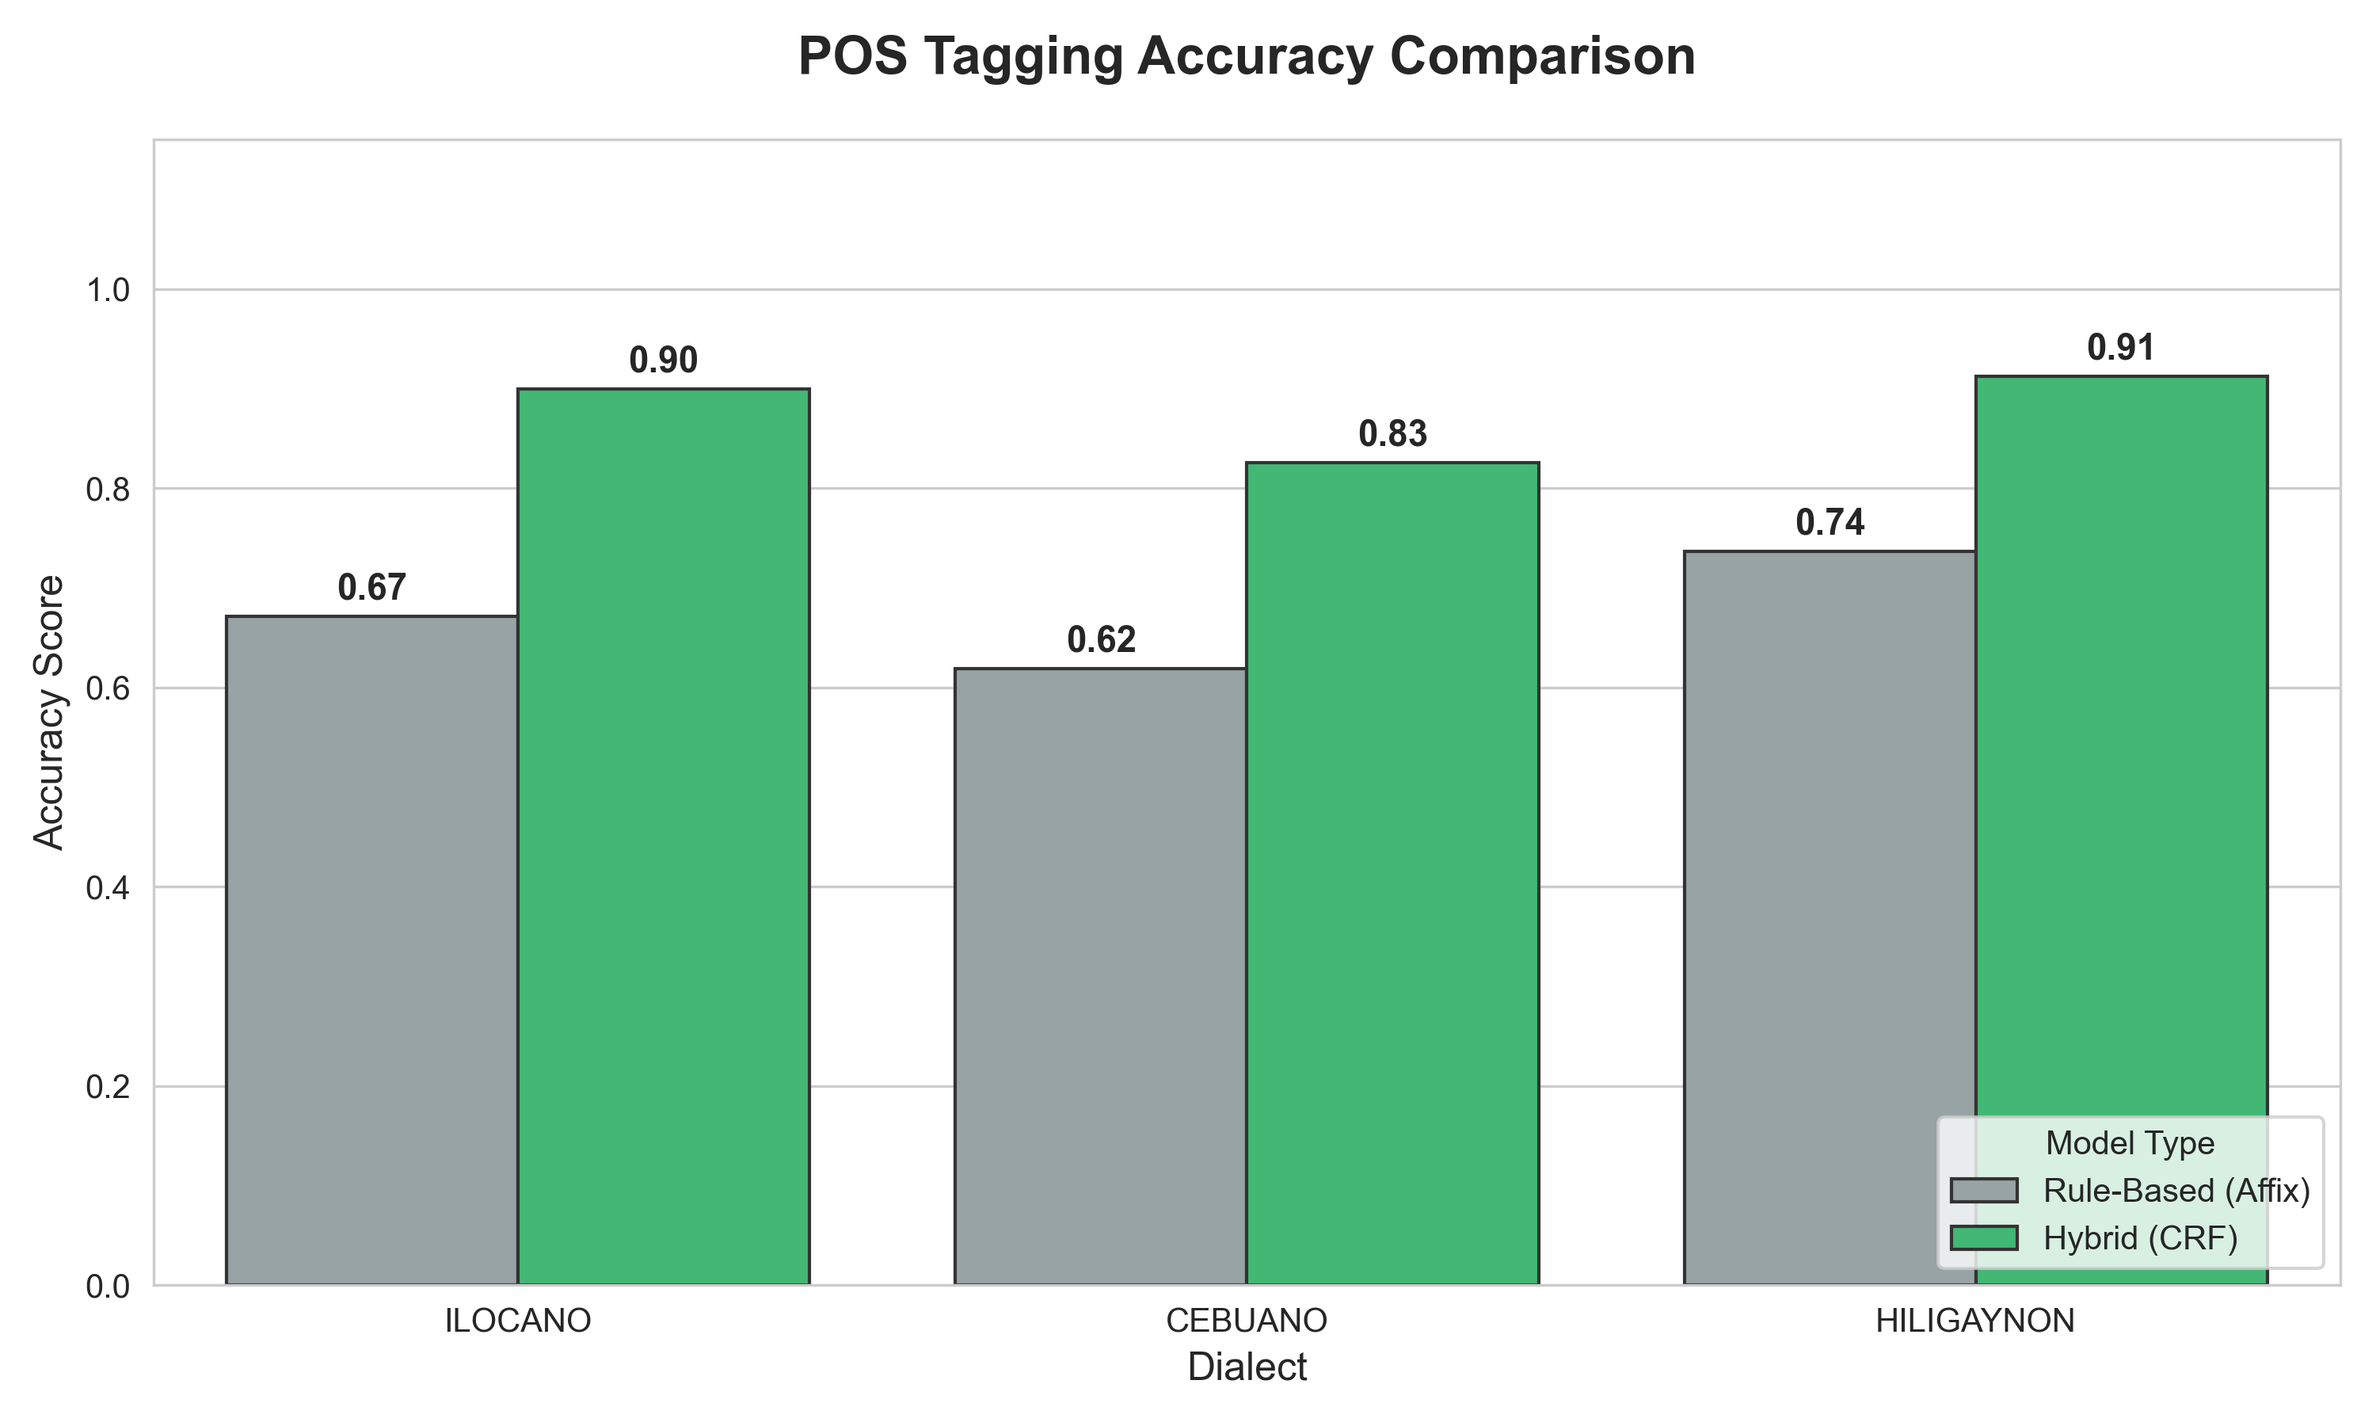
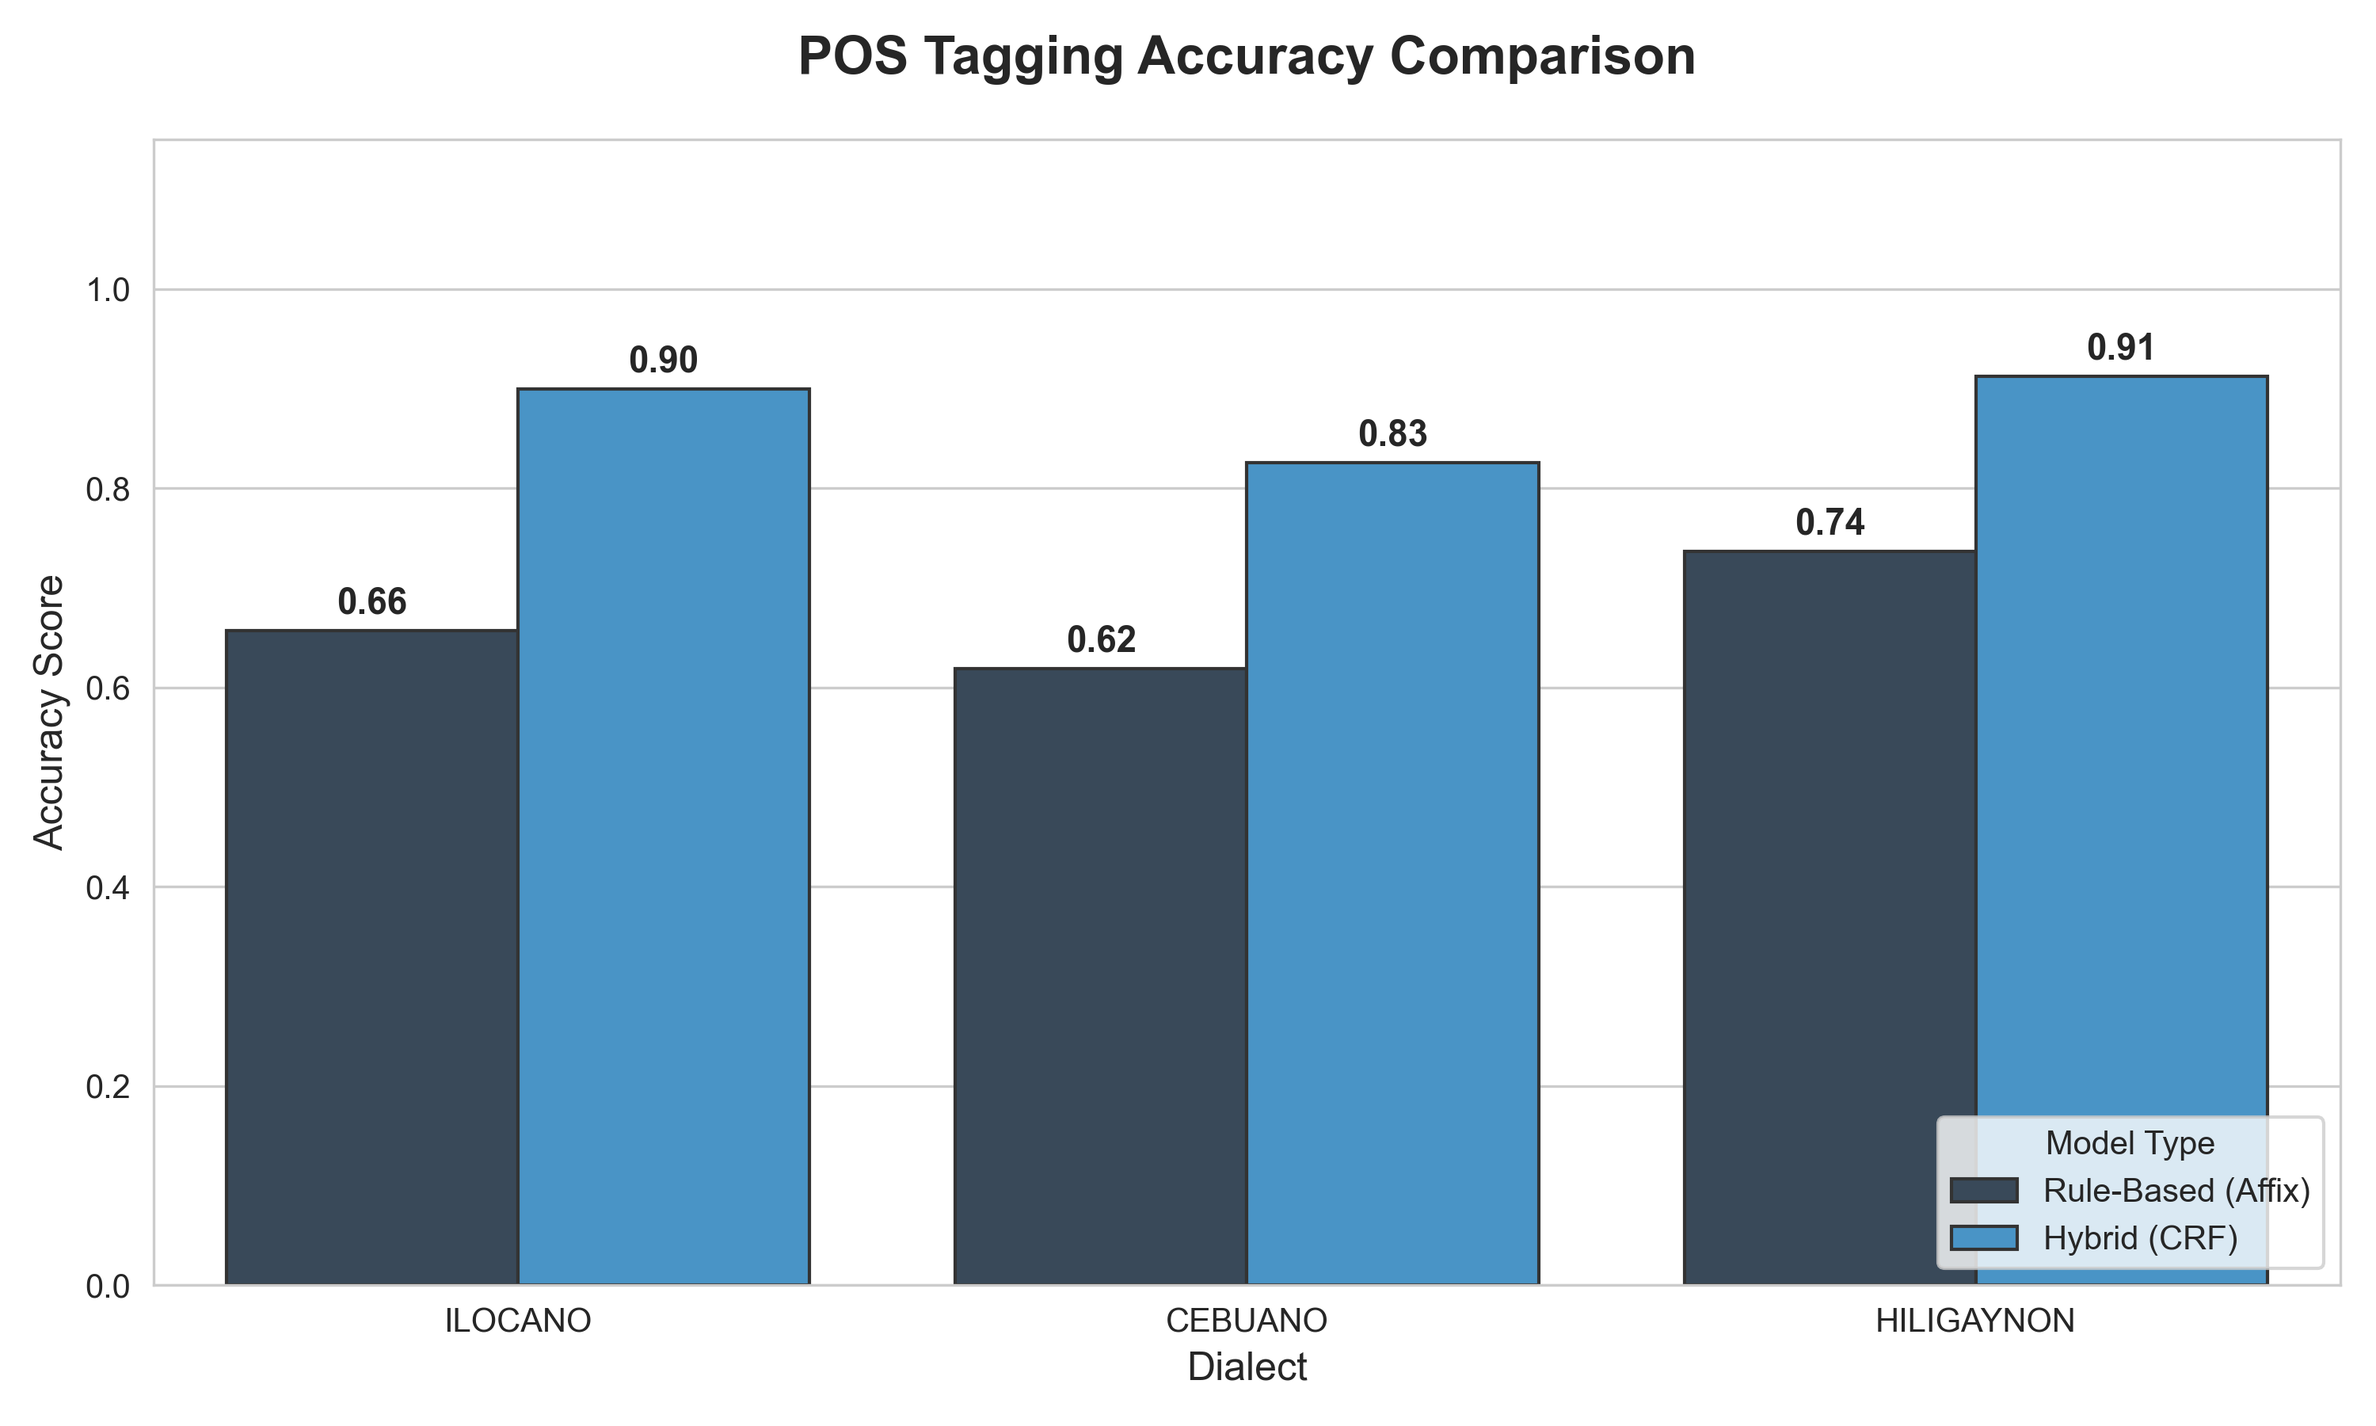
UPDATE: Added More Metrics and Results

diff --git a/backend/metrics/test_ambiguity.py b/backend/metrics/test_ambiguity.py
@@ -1,0 +1,221 @@
+import sys
+import os
+import pandas as pd
+import matplotlib.pyplot as plt
+import seaborn as sns
+from pathlib import Path
+
+# ─────────────────────────────────────────────────────────────────────────────
+# 1. SETUP & PATHS
+# ─────────────────────────────────────────────────────────────────────────────
+BACKEND_DIR = Path(__file__).resolve().parent
+os.chdir(BACKEND_DIR)
+sys.path.append(str(BACKEND_DIR))
+OUTPUT_DIR = BACKEND_DIR / "results"
+OUTPUT_DIR.mkdir(exist_ok=True)
+
+try:
+    from core.tagger.affix_tagging import predict_pos_batch
+    from core.tagger.crf_tagging import predict_pos, format_tokens_for_crf
+    from core.morphology.affix_stripping import get_morph_engine
+    print("✅ Engine Loaded.")
+except ImportError:
+    sys.exit("❌ Could not load engine.")
+
+# ─────────────────────────────────────────────────────────────────────────────
+# 2. INJECT EXTENDED TRAP LIST
+# ─────────────────────────────────────────────────────────────────────────────
+engine = get_morph_engine()
+print("\n💉 INJECTING EXTENDED TRAP LIST (27+ TRAPS)...")
+
+# We define the "stripped" versions of proper nouns as valid roots.
+# This forces the Affix Model to strip them (Fail), while CRF should recognize the Name (Pass).
+traps = {
+    "ilocano": [
+        # Original Traps
+        "osto", "bini", "ustin", "bukel", "oo", "bugao", "ong", "aw", "ta", "pay",
+        # NEW TRAPS
+        "singal",   # Magsingal (Place) -> Mag-singal
+        "udin",     # Tagudin (Place) -> Tag-udin
+        "partian",  # Nagpartian (Place) -> Nag-partian
+        "si"        # Masi (Place) -> Ma-si
+    ],
+    "cebuano": [
+        # Original Traps
+        "nila", "gia", "lou", "bolo", "tina", "pascua", "ro", "no", "las", "hal", "ta",
+        # NEW TRAPS
+        "lisay",    # Talisay (Place) -> Ta-lisay (Ta- prefix?)
+        "tilan",    # Ginatilan (Place) -> Gina-tilan (Gina- passive prefix)
+        "uikay",    # Maguikay (Place) -> Mag-uikay
+        "alboal"    # Moalboal (Place) -> Mo-alboal (Mo- future prefix)
+    ],
+    "hiligaynon": [
+        # Original Traps
+        "nolia", "ren", "gadia", "nay", "linao", "asin", "ga", "hal", "ta", "sakit",
+        # NEW TRAPS
+        "libo",     # Kalibo (Place) -> Ka-libo (Ka- prefix, Libo = 1000)
+        "busao",    # Mambusao (Place) -> Mam-busao (Mam- prefix)
+        "napla",    # Manapla (Place) -> Ma-napla
+        "pon"       # Mambusao (dup? let's use Pontevedra -> Pon-tevedra? too complex. Let's use 'Sipalay' -> Si-palay)
+                    # Sipalay -> Si-palay (Palay is Rice). Perfect collision.
+    ]
+}
+
+# Add 'palay' to hiligaynon traps separately since 'palay' is a real word anyway
+traps["hiligaynon"].append("palay")
+
+for lang, words in traps.items():
+    for w in words:
+        engine.roots[lang][w] = "TRAP_ROOT"
+        engine.root_sets[lang].add(w)
+
+print("✅ All Traps Injected.\n")
+
+# ─────────────────────────────────────────────────────────────────────────────
+# 3. EXPANDED TEST DATA (30+ CASES)
+# ─────────────────────────────────────────────────────────────────────────────
+AMBIGUOUS_DATA = [
+    # =========================================================
+    # ILOCANO (13 Cases)
+    # =========================================================
+    # --- Proper Noun Traps ---
+    { "Dialect": "ILOCANO", "Sentence": "Naragsak ti Agosto idiay plaza .", "Target_Word": "Agosto", "Expected_Lemma": "agosto" },
+    { "Dialect": "ILOCANO", "Sentence": "Napan da idiay Mabini .", "Target_Word": "Mabini", "Expected_Lemma": "mabini" },
+    { "Dialect": "ILOCANO", "Sentence": "Ni Agustin ti kabsatko .", "Target_Word": "Agustin", "Expected_Lemma": "agustin" },
+    { "Dialect": "ILOCANO", "Sentence": "Nagpintas ti Nagbukel .", "Target_Word": "Nagbukel", "Expected_Lemma": "nagbukel" },
+    { "Dialect": "ILOCANO", "Sentence": "Adda ti balay idiay Agoo .", "Target_Word": "Agoo", "Expected_Lemma": "agoo" },
+    { "Dialect": "ILOCANO", "Sentence": "Taga Cabugao isuna .", "Target_Word": "Cabugao", "Expected_Lemma": "cabugao" },
+    # --- NEW: Place Name Traps ---
+    { "Dialect": "ILOCANO", "Sentence": "Agpasiar da idiay Magsingal .", "Target_Word": "Magsingal", "Expected_Lemma": "magsingal" }, # Trap: Mag-singal
+    { "Dialect": "ILOCANO", "Sentence": "Adayo ti Tagudin .", "Target_Word": "Tagudin", "Expected_Lemma": "tagudin" },           # Trap: Tag-udin
+    { "Dialect": "ILOCANO", "Sentence": "Napanda idiay Nagpartian .", "Target_Word": "Nagpartian", "Expected_Lemma": "nagpartian" }, # Trap: Nag-partian
+    { "Dialect": "ILOCANO", "Sentence": "Bassit ti ili ti Masi .", "Target_Word": "Masi", "Expected_Lemma": "masi" },               # Trap: Ma-si
+    # --- Pseudo-Verb/Adj Traps ---
+    { "Dialect": "ILOCANO", "Sentence": "Dakkel ti agong na .", "Target_Word": "agong", "Expected_Lemma": "agong" },
+    { "Dialect": "ILOCANO", "Sentence": "Ti agaw ket masama .", "Target_Word": "agaw", "Expected_Lemma": "agaw" },
+    { "Dialect": "ILOCANO", "Sentence": "Nagsakit ti mata na .", "Target_Word": "mata", "Expected_Lemma": "mata" },
+
+    # =========================================================
+    # CEBUANO (14 Cases)
+    # =========================================================
+    # --- Proper Noun Traps ---
+    { "Dialect": "CEBUANO", "Sentence": "Moadto kami sa Manila ugma .", "Target_Word": "Manila", "Expected_Lemma": "manila" },
+    { "Dialect": "CEBUANO", "Sentence": "Gitawag ni Gia ang iyang inahan .", "Target_Word": "Gia", "Expected_Lemma": "gia" },
+    { "Dialect": "CEBUANO", "Sentence": "Si Malou ang akong higala .", "Target_Word": "Malou", "Expected_Lemma": "malou" },
+    { "Dialect": "CEBUANO", "Sentence": "Naa sa Mabolo ang tindahan .", "Target_Word": "Mabolo", "Expected_Lemma": "mabolo" },
+    { "Dialect": "CEBUANO", "Sentence": "Layo ang Matina sa amoa .", "Target_Word": "Matina", "Expected_Lemma": "matina" },
+    { "Dialect": "CEBUANO", "Sentence": "Nindot ang Malapascua .", "Target_Word": "Malapascua", "Expected_Lemma": "malapascua" },
+    # --- NEW: Place Name Traps ---
+    { "Dialect": "CEBUANO", "Sentence": "Traffic sa Talisay karon .", "Target_Word": "Talisay", "Expected_Lemma": "talisay" },       # Trap: Ta-lisay
+    { "Dialect": "CEBUANO", "Sentence": "Nindot ang waterfalls sa Ginatilan .", "Target_Word": "Ginatilan", "Expected_Lemma": "ginatilan" }, # Trap: Gina-tilan
+    { "Dialect": "CEBUANO", "Sentence": "Taga Maguikay siya .", "Target_Word": "Maguikay", "Expected_Lemma": "maguikay" },         # Trap: Mag-uikay
+    { "Dialect": "CEBUANO", "Sentence": "Mag-dive ta sa Moalboal .", "Target_Word": "Moalboal", "Expected_Lemma": "moalboal" },     # Trap: Mo-alboal
+    # --- Pseudo-Verb/Adj Traps ---
+    { "Dialect": "CEBUANO", "Sentence": "Ang mga Moro sa Mindanao .", "Target_Word": "Moro", "Expected_Lemma": "moro" },
+    { "Dialect": "CEBUANO", "Sentence": "Niaging mano po siya .", "Target_Word": "mano", "Expected_Lemma": "mano" },
+    { "Dialect": "CEBUANO", "Sentence": "Dako nga malas kini .", "Target_Word": "malas", "Expected_Lemma": "malas" },
+    { "Dialect": "CEBUANO", "Sentence": "Sakit ang mata nako .", "Target_Word": "mata", "Expected_Lemma": "mata" },
+
+    # =========================================================
+    # HILIGAYNON (13 Cases)
+    # =========================================================
+    # --- Proper Noun Traps ---
+    { "Dialect": "HILIGAYNON", "Sentence": "Nagbakal siya sang Magnolia .", "Target_Word": "Magnolia", "Expected_Lemma": "magnolia" },
+    { "Dialect": "HILIGAYNON", "Sentence": "Si Karen ang akon abyan .", "Target_Word": "Karen", "Expected_Lemma": "karen" },
+    { "Dialect": "HILIGAYNON", "Sentence": "Nakadto kami sa Pagadian .", "Target_Word": "Pagadian", "Expected_Lemma": "pagadian" },
+    { "Dialect": "HILIGAYNON", "Sentence": "Matahum ang Panay .", "Target_Word": "Panay", "Expected_Lemma": "panay" },
+    { "Dialect": "HILIGAYNON", "Sentence": "Tinlo ang tubig sa Malinao .", "Target_Word": "Malinao", "Expected_Lemma": "malinao" },
+    { "Dialect": "HILIGAYNON", "Sentence": "Maalat ang Maasin .", "Target_Word": "Maasin", "Expected_Lemma": "maasin" },
+    # --- NEW: Place Name Traps ---
+    { "Dialect": "HILIGAYNON", "Sentence": "Ang Ati-Atihan sa Kalibo .", "Target_Word": "Kalibo", "Expected_Lemma": "kalibo" },      # Trap: Ka-libo (Thousand)
+    { "Dialect": "HILIGAYNON", "Sentence": "Layo ang Mambusao .", "Target_Word": "Mambusao", "Expected_Lemma": "mambusao" },       # Trap: Mam-busao
+    { "Dialect": "HILIGAYNON", "Sentence": "Taga Manapla siya .", "Target_Word": "Manapla", "Expected_Lemma": "manapla" },         # Trap: Ma-napla
+    { "Dialect": "HILIGAYNON", "Sentence": "Bugana ang humay sa Sipalay .", "Target_Word": "Sipalay", "Expected_Lemma": "sipalay" }, # Trap: Si-palay (Rice)
+    # --- Pseudo-Verb/Adj Traps ---
+    { "Dialect": "HILIGAYNON", "Sentence": "Didto sa Naga kami .", "Target_Word": "Naga", "Expected_Lemma": "naga" },
+    { "Dialect": "HILIGAYNON", "Sentence": "Ang mahal ko .", "Target_Word": "mahal", "Expected_Lemma": "mahal" },
+    { "Dialect": "HILIGAYNON", "Sentence": "May sakit sa mata .", "Target_Word": "mata", "Expected_Lemma": "mata" }
+]
+
+# ─────────────────────────────────────────────────────────────────────────────
+# 4. RUN EVALUATION
+# ─────────────────────────────────────────────────────────────────────────────
+print(f"{'DIALECT':<10} | {'WORD':<12} | {'MODEL':<8} | {'PRED POS':<8} | {'PRED LEMMA':<12} | {'STATUS'}")
+print("-" * 90)
+
+results = []
+
+for case in AMBIGUOUS_DATA:
+    dialect = case["Dialect"]
+    sent = case["Sentence"]
+    target = case["Target_Word"]
+    correct_lemma = case["Expected_Lemma"].lower()
+    
+    tokens = sent.split()
+    try:
+        target_idx = tokens.index(target)
+    except ValueError:
+        continue
+
+    # --- A. RUN AFFIX PIPELINE ---
+    affix_tags = predict_pos_batch(tokens, dialect)
+    affix_tag = affix_tags[target_idx]
+    
+    # Strict call
+    affix_lemma_res = engine.lemmatize(target, dialect, pos=affix_tag)
+    affix_lemma = affix_lemma_res["lemma"]
+
+    # --- B. RUN CRF PIPELINE ---
+    feats = format_tokens_for_crf(tokens)
+    crf_tags = predict_pos(feats, dialect)
+    crf_tag = crf_tags[target_idx]
+    
+    # Strict call
+    crf_lemma_res = engine.lemmatize(target, dialect, pos=crf_tag)
+    crf_lemma = crf_lemma_res["lemma"]
+
+    # --- C. PRINT & STORE RESULTS ---
+    status_affix = "✅ PASS" if affix_lemma == correct_lemma else "❌ FAIL"
+    print(f"{dialect:<10} | {target:<12} | {'AFFIX':<8} | {affix_tag:<8} | {affix_lemma:<12} | {status_affix}")
+    
+    status_crf = "✅ PASS" if crf_lemma == correct_lemma else "❌ FAIL"
+    print(f"{'':<10} | {'':<12} | {'CRF':<8} | {crf_tag:<8} | {crf_lemma:<12} | {status_crf}")
+    print("-" * 90)
+    
+    results.append({"Dialect": dialect, "Model": "Rule-Based (Affix)", "Score": 1 if affix_lemma == correct_lemma else 0})
+    results.append({"Dialect": dialect, "Model": "Hybrid (CRF)", "Score": 1 if crf_lemma == correct_lemma else 0})
+
+# ─────────────────────────────────────────────────────────────────────────────
+# 5. GENERATE CHART
+# ─────────────────────────────────────────────────────────────────────────────
+print("\n📈 Generating Comprehensive Ambiguity Chart...")
+
+df = pd.DataFrame(results)
+summary = df.groupby(["Dialect", "Model"])["Score"].mean().reset_index()
+
+plt.figure(figsize=(10, 6))
+sns.set_style("whitegrid")
+
+ax = sns.barplot(
+    data=summary, 
+    x="Dialect", 
+    y="Score", 
+    hue="Model", 
+    palette=["#34495e", "#3498db"], # Red for Fail, Green for Pass
+    edgecolor="0.2"
+)
+
+plt.title("Ambiguity Stress Test: Collision Dataset (40 Cases)", fontsize=16, fontweight='bold', pad=20)
+plt.ylabel("Lemmatization Accuracy", fontsize=12)
+plt.xlabel("Dialect", fontsize=12)
+plt.ylim(0, 1.15)
+plt.legend(loc='lower right', title="Pipeline", fontsize=10)
+
+for container in ax.containers:
+    ax.bar_label(container, fmt='%.2f', padding=3, fontsize=11, fontweight='bold')
+
+save_path = OUTPUT_DIR / "ambiguity_unified_extended.png"
+plt.tight_layout()
+plt.savefig(save_path, dpi=300)
+print(f"✅ Saved Chart to: {save_path}")
+plt.close()

diff --git a/backend/metrics/pos_accuracy.py b/backend/metrics/pos_accuracy.py
@@ -145,7 +145,7 @@ ax = sns.barplot(
     x="Dialect", 
     y="Accuracy", 
     hue="Model", 
-    palette=["#95a5a6", "#2ecc71"], # Grey for Rule-Based, Green for Hybrid
+    palette=["#34495e", "#3498db"], # Grey for Rule-Based, Green for Hybrid
     edgecolor="0.2"
 )
 
